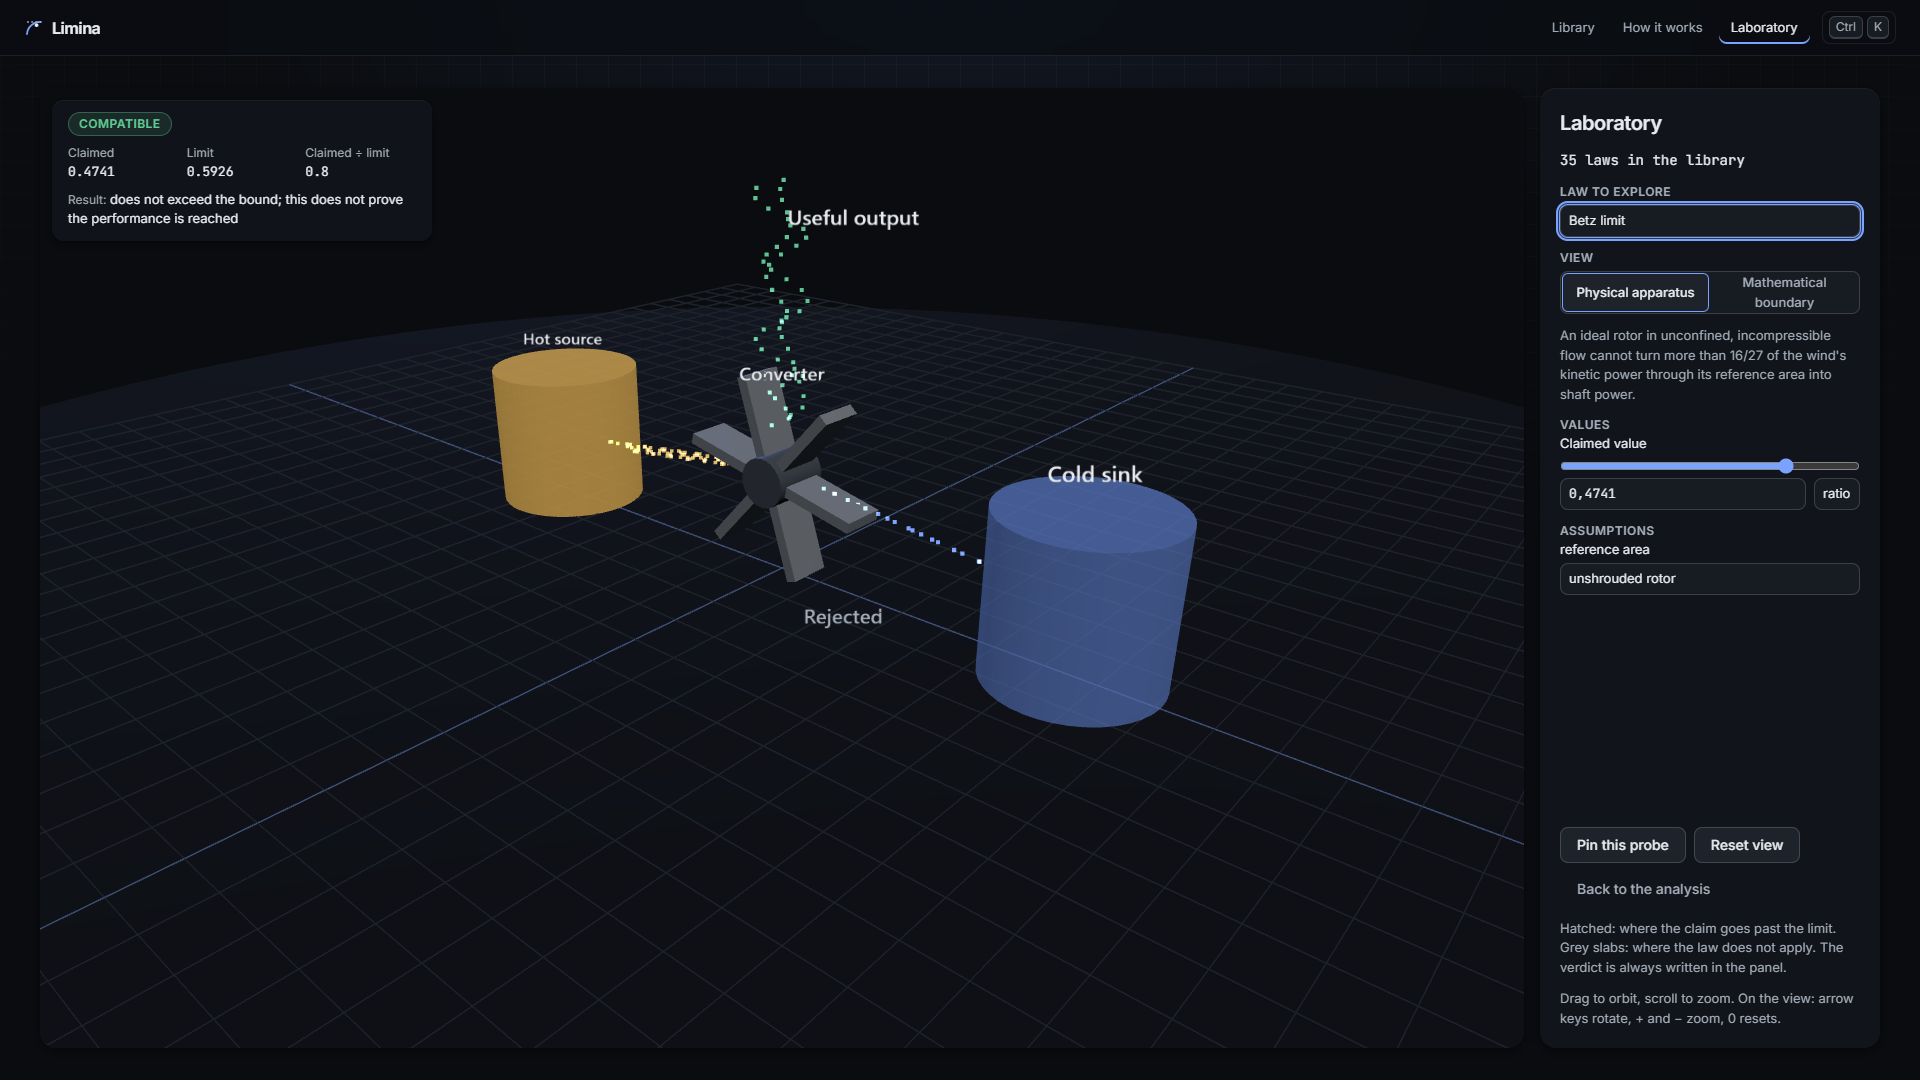
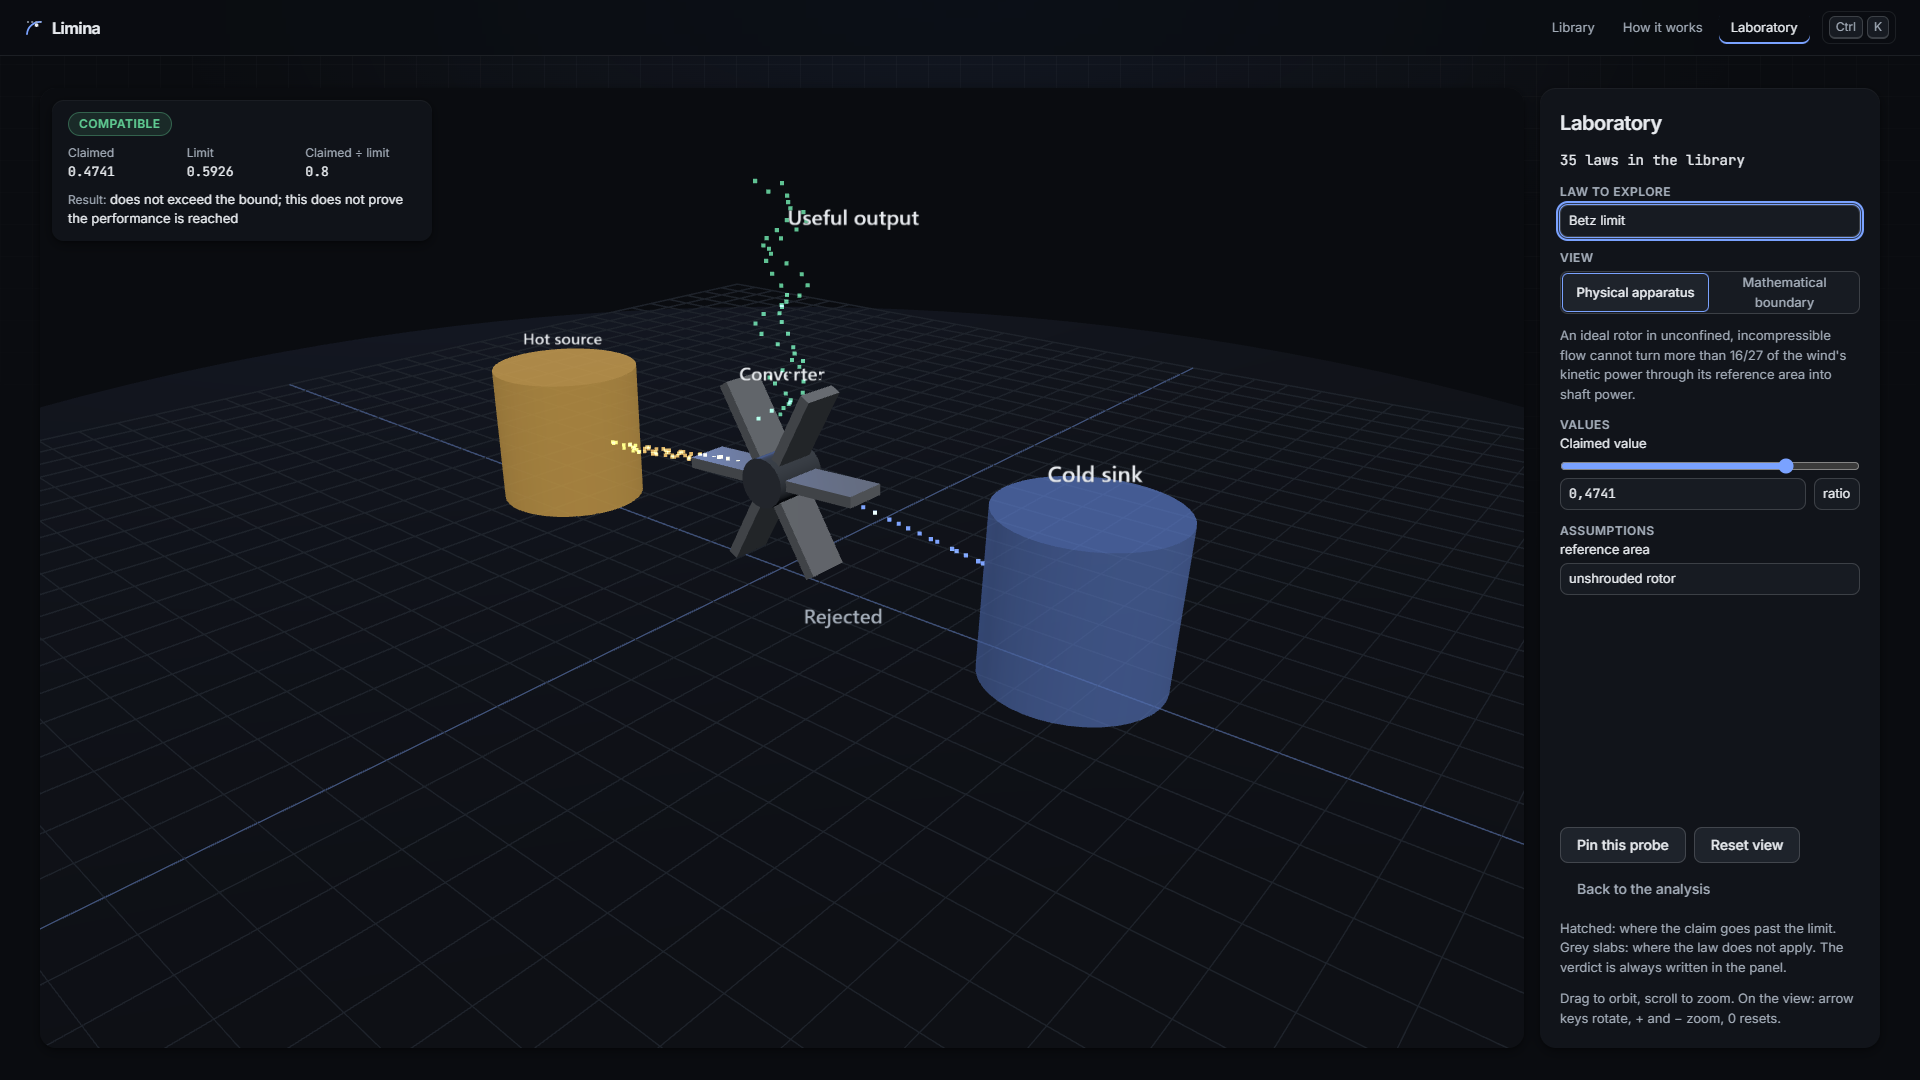
Lab: measured-radius label outside both radii; spec documents the decay cloud and the radius ring

Changed region(s): [[0.3125, 0.3361, 0.4688, 0.55], [0.4062, 0.1833, 0.4375, 0.2139], [0.375, 0.2139, 0.4062, 0.2444]]

diff --git a/web/src/app/laboratory/apparatus-view.ts b/web/src/app/laboratory/apparatus-view.ts
@@ -319,7 +319,8 @@ export class ApparatusView {
         new LineBasicMaterial({ color, transparent: true, opacity: 0.9 }),
       ),
     );
-    this.label(LAB.apparatus.measuredRadius, centre.clone().add(new Vector3(measured + 0.4, 0.7, 0)), color);
+    // Outside both the ring and the sphere, and a little above: a sprite is centred, so half its width is added.
+    this.label(LAB.apparatus.measuredRadius, centre.clone().add(new Vector3(Math.max(measured, reference) + 2.6, 1.1, 0)), color);
     this.label(LAB.apparatus.referenceRadius, centre.clone().add(new Vector3(0, reference + 0.7, 0)));
     if (d.pinned) {
       const ghost = new Mesh(new TorusGeometry(orbitRadii((d.pinned.ratio ?? 1) * (d.result?.bound ?? 1), d.result?.bound ?? 1).measured, 0.03, 8, 96), new MeshBasicMaterial({ color: this.theme.textSecondary, wireframe: true }));

diff --git a/.kiro/specs/laboratory-3d/design.md b/.kiro/specs/laboratory-3d/design.md
@@ -44,7 +44,9 @@ Switching between the physical apparatus and the mathematical boundary clears th
 
 ## 6b. Dual view (R-11, R-12)
 - `apparatus.ts` (pure): `apparatusFor(limit)` scores each bench: claim unit 2 (a ratio claim 1 for `flow`, an efficiency), each parameter 1 by its first unit of a bench, a temperature parameter 3 for `flow`, a label cue 3 (`wave`: wavelength, frequency, aperture, bandwidth, signal-to-noise, resolution; `quantum`: level, quantum, half-life, decay, lifetime, uncertainty). Highest score wins; ties go to the more specific bench (wave, quantum, trajectory, flow); no score gives `quantum`. Helpers find the level, mass, spectral and aperture parameters by their metadata and compute what the benches draw (flow shares, converter speed, well depth, Lorentz squash, spectrum colour, Airy pattern with J1 by Simpson's rule, peak separation, n² shells, packet agitation).
-- `apparatus-view.ts`: `ApparatusView` draws one bench in the observatory's stage and returns its state (`flowing`, `collapsed`, `escapes`, `falls`, `resolved`, `merged`, `shells`, `packet`), exposed as `data-bench` with `data-view` and `data-apparatus` on the stage for the end-to-end checks.
+- `apparatus-view.ts`: `ApparatusView` draws one bench in the observatory's stage and returns its state (`flowing`, `collapsed`, `escapes`, `captured`, `radius`, `resolved`, `merged`, `shells`, `population`, `packet`), exposed as `data-bench` with `data-view` and `data-apparatus` on the stage for the end-to-end checks.
+- Quantum bench, decay variant (`isDecay`: a time parameter, or a "decay", "half-life" or "initial" label): a 7×7×7 lattice of 343 nuclei; the lit share is `decayFractions(claim, bound, initial).shown`, the claimed remaining over the initial count (`initialParameter`), drawn by `undecayed(343, fraction)` in a fixed scattered order so a larger fraction keeps every nucleus a smaller one lit. A faint full ring on the floor, a white arc of the expected fraction (engine value over the same count, "Expected by the law"), a coloured inner arc of the claimed one, and "Remaining NN %" above. Without an initial count the two values are read as fractions. Bench state `population`. The confinement variant keeps its two plates, outlined with `EdgesGeometry` in the accent colour.
+- Field bench, length variant (`isLength(claim unit)`: m, km, cm, mm, au, ly, pc): instead of the path, a wireframe sphere at the reference radius and a ring at the measured radius, `orbitRadii(claim, bound)` (reference 2.5, measured 2.5 × claimed ÷ limit kept within 0.3 to 3), a spoke from the centre and a body on the ring. "Reference radius" sits above the sphere; "Measured radius" sits outside the larger of the two radii and above the ring plane, so the labels never overlap when the ratio is near 1. Bench state `radius`. A claimed speed keeps the path, labelled "Escapes" (state `escapes`) or "Captured" (state `captured`).
 - The page keeps one `mode` signal; `redraw()` draws the active view and clears the other. The text alternative of the stage describes the active view.
 - Routing by the 35 built-in laws (verified, not coded): energy bench for Carnot, COP, Betz, Shockley-Queisser, Landauer, Stefan-Boltzmann, mass-energy, power conservation, Eddington, luminous efficacy, energy-momentum; optics bench for Abbe, Rayleigh, Shannon-Hartley, both photon energies, Friedmann (a rate in Hz); quantum bench for hydrogen levels, Heisenberg, de Broglie, radioactive decay; field bench for the others.
 

diff --git a/.kiro/specs/laboratory-3d/tasks.md b/.kiro/specs/laboratory-3d/tasks.md
@@ -31,3 +31,5 @@
 - [x] 5.3 `apparatus-view.ts`: energy, field, optics and quantum benches, driven by the same controls, Find Breaking Point, Dual Probe and Inspect in 3D Lab.
 - [x] 5.4 Switching releases the other view; e2e checks the GPU geometry count over four round trips and the WebGL context on /laboratory, /, /laboratory.
 - [x] 5.5 Test runner: `vitest-base.config.ts` (two workers, 15 s timeouts) via `runnerConfig`; `claimOf` and `contrast` moved out of spec files into `testing-fixtures.ts` and `testing-contrast.ts` (importing a spec from another spec made Vitest report "No test suite found" and run its tests twice).
+- [x] 5.6 Quantum bench: decaying population (343 nuclei, lit share = claimed remaining over the initial count, rings for the claimed and expected fractions); confinement plates outlined.
+- [x] 5.7 Field bench: a claimed length gets a measured-radius ring around the reference-radius sphere, its label outside both radii; speeds keep the path labelled Escapes or Captured.
